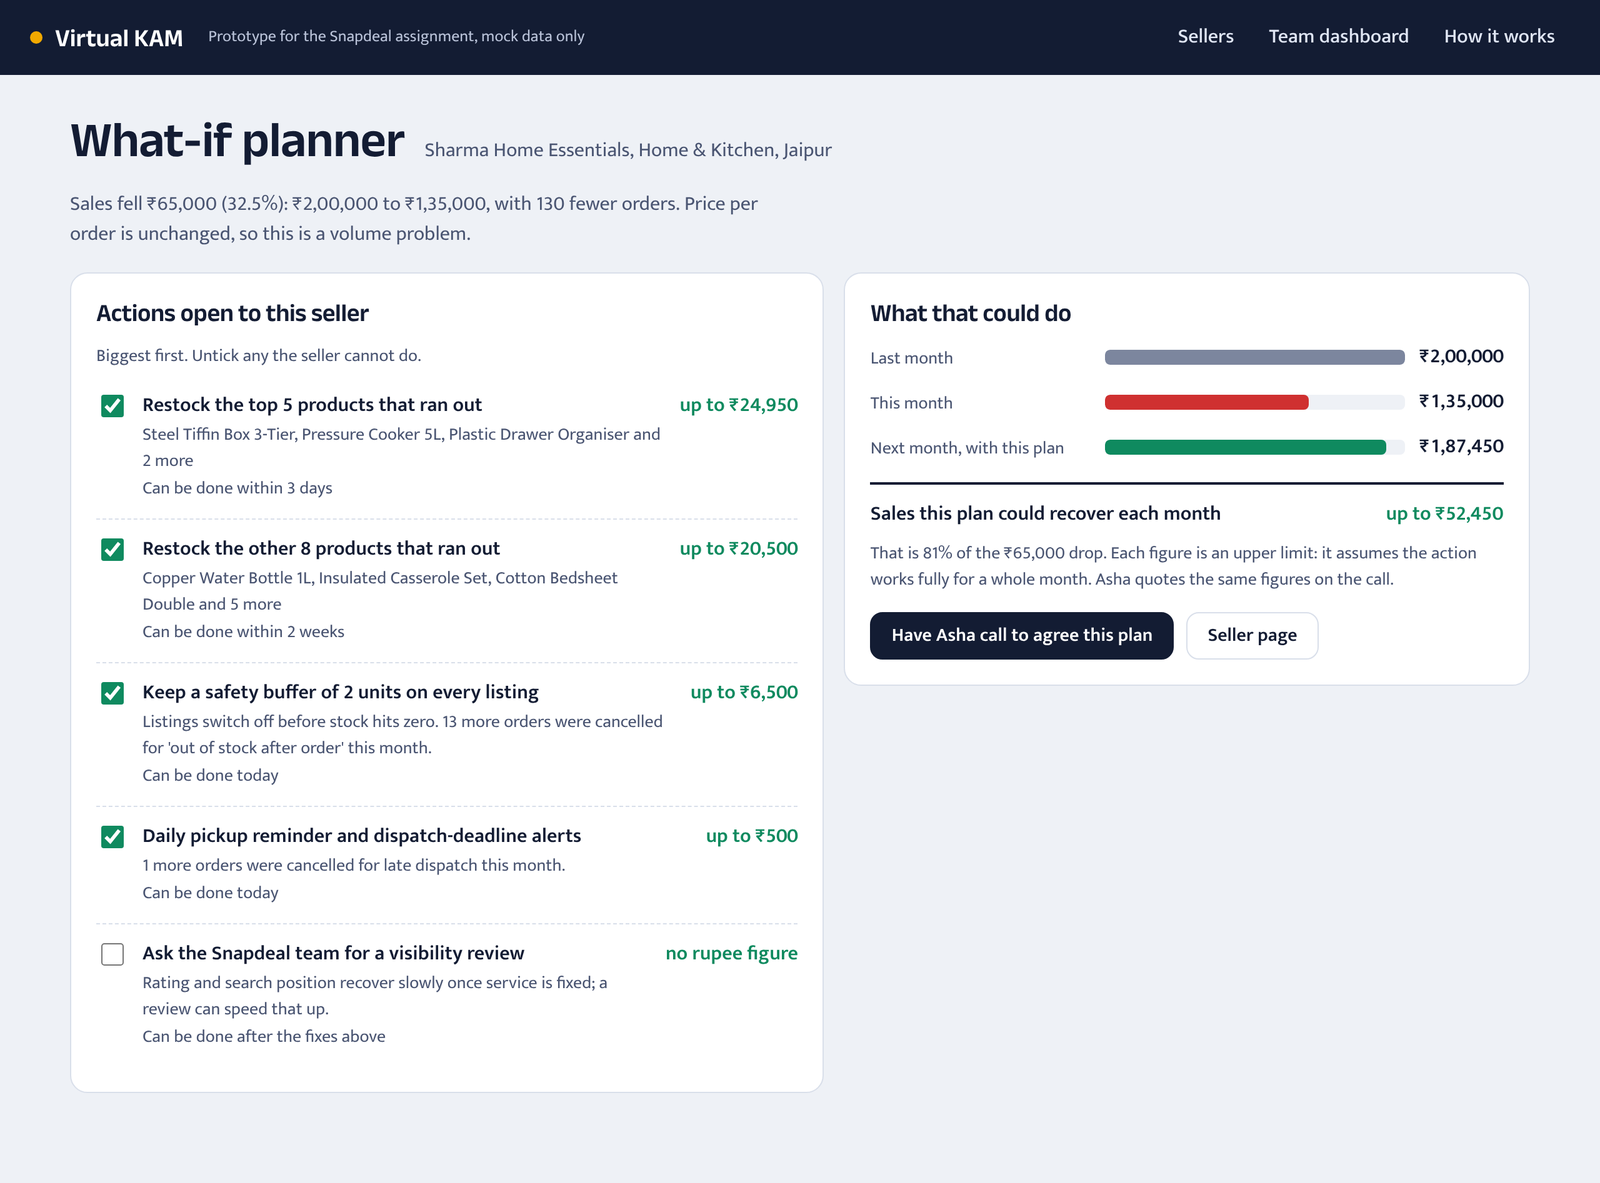
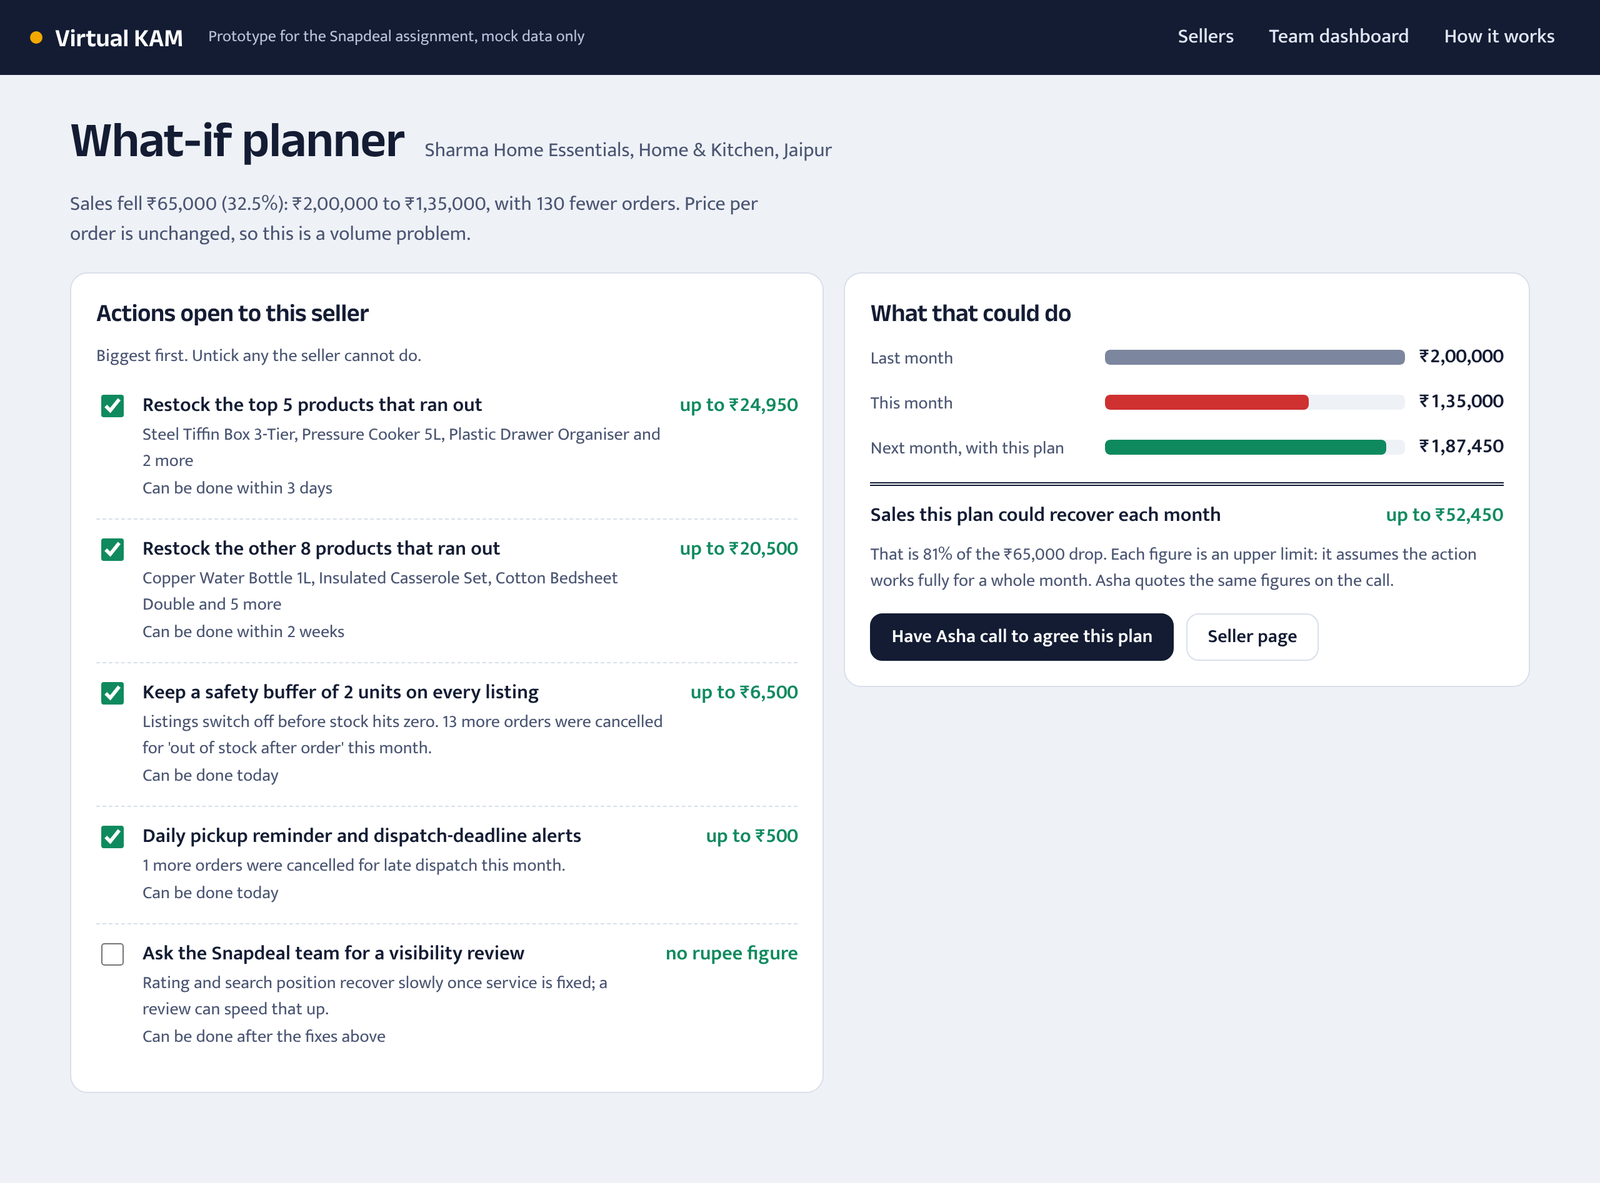
Redesign the home page hero, call panel and ledger

Changed region(s): [[0.5312, 0.3956, 0.9375, 0.5478]]

diff --git a/web/app/globals.css b/web/app/globals.css
@@ -56,8 +56,18 @@ ul.clean { margin: 6px 0 0; padding-left: 20px; } ul.clean li { margin: 3px 0; }
 ol.steps { margin: 0; padding-left: 22px; } ol.steps li { margin: 6px 0; padding-left: 4px; }
 
 /* home */
-.hero { padding: 16px 0 28px; max-width: 760px; }
-.hero p { font-size: 18px; color: var(--ink-2); margin-top: 12px; max-width: 62ch; }
+.hero { padding: 12px 0 28px; display: grid; gap: 24px; grid-template-columns: minmax(0, 1fr); align-items: center; }
+@media (min-width: 900px) { .hero { grid-template-columns: minmax(0, 6fr) minmax(0, 5fr); gap: 40px; } }
+.hero h1 { font-size: clamp(30px, 4.4vw, 46px); letter-spacing: -0.02em; }
+.hero p { font-size: 18px; color: var(--ink-2); margin-top: 14px; max-width: 56ch; }
+.herocard { border-left: 5px solid var(--marigold); box-shadow: 0 18px 36px -24px rgba(19,28,51,.55); }
+.herocard .lost { font: 600 clamp(30px, 4vw, 40px)/1.1 var(--display); margin: 6px 0 12px; font-variant-numeric: tabular-nums; }
+.herocard .lost span { font: 400 16px/1.3 var(--body); color: var(--ink-2); }
+.legend { list-style: none; padding: 0; margin: 10px 0 0; display: grid; gap: 4px; font-size: 14px; }
+.legend li { display: grid; grid-template-columns: auto minmax(0, 1fr) auto; gap: 8px; align-items: center; }
+.legend i { width: 10px; height: 10px; border-radius: 3px; }
+.legend .s0 { background: var(--red); } .legend .s1 { background: #e58a2b; } .legend .s2 { background: #8a94ad; } .legend .s3 { background: #b7bfd2; }
+.legend b { font-variant-numeric: tabular-nums; }
 .sellers { padding: 0; overflow: hidden; }
 .srow { display: grid; grid-template-columns: minmax(0, 1.5fr) minmax(0, 1.1fr) minmax(0, 1fr) auto; gap: 8px 20px; align-items: center;
   padding: 16px 20px; border-bottom: 1px solid var(--line); }
@@ -76,25 +86,24 @@ form.own .h { font-size: 13px; color: var(--ink-3); }
 .stage { display: grid; gap: 16px; grid-template-columns: minmax(0, 1fr); }
 .stage > * { min-width: 0; }
 @media (min-width: 960px) { .stage { grid-template-columns: minmax(0, 11fr) minmax(0, 10fr); align-items: start; } }
-.phone { background: var(--ink); color: #fff; border-radius: 18px; padding: 22px; }
+.phone { background: var(--ink); color: #fff; border-radius: 18px; padding: 24px; box-shadow: 0 14px 30px -18px rgba(19,28,51,.7); }
 .phone .status { display: flex; align-items: center; gap: 10px; font-size: 14px; color: #c5cde2; }
 .phone .dot { width: 10px; height: 10px; border-radius: 50%; background: #5d6a8c; flex: none; }
 .phone .dot.live { background: var(--marigold); box-shadow: 0 0 0 0 rgba(242,169,0,.6); animation: pulse 1.6s infinite; }
 .phone .dot.ring { background: var(--green); animation: pulse 1s infinite; }
 .phone .timer { margin-left: auto; font-variant-numeric: tabular-nums; }
 @keyframes pulse { 0% { box-shadow: 0 0 0 0 rgba(242,169,0,.55); } 100% { box-shadow: 0 0 0 12px rgba(242,169,0,0); } }
-.phone .now { font: 600 clamp(22px, 3vw, 28px)/1.2 var(--display); margin: 14px 0 6px; }
+.phone .now { font: 600 clamp(24px, 3.4vw, 34px)/1.15 var(--display); margin: 16px 0 6px; letter-spacing: -0.01em; }
 .phone .hint { color: #c5cde2; max-width: 46ch; }
 .phone .controls { display: flex; gap: 10px; flex-wrap: wrap; margin-top: 18px; align-items: center; }
 .phone .opts { display: flex; gap: 12px; flex-wrap: wrap; margin-top: 16px; }
 .phone .opts label { font-size: 13px; color: #c5cde2; display: grid; gap: 4px; }
 .phone .opts select { width: auto; background: #1f2c50; color: #fff; border-color: #34426b; }
-.bars { display: flex; align-items: flex-end; gap: 4px; height: 26px; margin-top: 14px; }
-.bars i { width: 5px; border-radius: 3px; background: #34426b; height: 6px; transition: height .18s, background .18s; }
+.bars { display: flex; align-items: center; gap: 4px; height: 48px; margin-top: 16px; }
+.bars i { flex: 1 1 0; max-width: 8px; border-radius: 4px; background: #34426b; height: 6px; transition: height .18s, background .18s; }
 .bars.agent i { background: var(--marigold); } .bars.seller i { background: #7fa2ff; }
 .bars.agent i, .bars.seller i { animation: talk .9s ease-in-out infinite; }
-.bars i:nth-child(2) { animation-delay: .12s; } .bars i:nth-child(3) { animation-delay: .24s; } .bars i:nth-child(4) { animation-delay: .36s; } .bars i:nth-child(5) { animation-delay: .48s; }
-@keyframes talk { 0%, 100% { height: 6px; } 50% { height: 24px; } }
+@keyframes talk { 0%, 100% { height: 6px; } 50% { height: 44px; } }
 .talk { display: flex; flex-direction: column; gap: 8px; max-height: 420px; overflow-y: auto; padding: 2px; }
 .turn { max-width: 88%; padding: 8px 12px; border-radius: 14px; }
 .turn.agent { background: var(--paper); align-self: flex-start; border-bottom-left-radius: 4px; }
@@ -105,12 +114,12 @@ form.own .h { font-size: 13px; color: var(--ink-3); }
 .cause .head { display: flex; justify-content: space-between; gap: 12px; align-items: baseline; flex-wrap: wrap; }
 .bar { height: 8px; background: var(--paper); border-radius: 4px; margin: 6px 0 4px; overflow: hidden; }
 .bar i { display: block; height: 100%; background: var(--red); border-radius: 4px; }
-.entry { display: grid; grid-template-columns: auto minmax(0, 1fr) auto; gap: 4px 12px; padding: 12px 0; border-bottom: 1px dashed var(--line); animation: stamp .45s ease-out; }
+.entry { display: grid; grid-template-columns: auto minmax(0, 1fr) auto; gap: 4px 12px; padding: 12px 0; border-bottom: 1px solid #ece3cf; animation: stamp .45s ease-out; }
 .entry:last-of-type { border-bottom: 0; }
 .entry .tick { width: 24px; height: 24px; border-radius: 50%; background: var(--green); color: #fff; display: grid; place-items: center; font-size: 14px; font-weight: 700; }
 .entry .amt { color: var(--green); font-weight: 600; font-variant-numeric: tabular-nums; white-space: nowrap; }
 @keyframes stamp { 0% { opacity: 0; transform: scale(1.04); background: var(--green-soft); } 100% { opacity: 1; transform: none; background: transparent; } }
-.total { display: flex; justify-content: space-between; gap: 12px; padding-top: 12px; margin-top: 4px; border-top: 2px solid var(--ink); font-weight: 600; }
+.total { display: flex; justify-content: space-between; gap: 12px; padding-top: 12px; margin-top: 4px; border-top: 3px double var(--ink); font-weight: 600; }
 
 /* dashboard */
 .stats { display: grid; grid-template-columns: repeat(auto-fit, minmax(150px, 1fr)); border: 1px solid var(--line); border-radius: 14px; background: var(--card); overflow: hidden; margin: 20px 0 16px; }
@@ -125,6 +134,16 @@ form.own .h { font-size: 13px; color: var(--ink-3); }
 .flow b { display: block; }
 
 td .btn { white-space: nowrap; }
+/* The record of what was agreed, styled as a page from a shop's account book */
+.card.ledger { background: #fffdf6; border-color: #e6dcc3; border-left: 5px solid var(--marigold); }
+.card.ledger .entry:last-of-type { border-bottom: 0; }
+/* One bar for the whole drop, split by cause */
+.split { margin: 14px 0 4px; }
+.splitbar { display: flex; height: 34px; border-radius: 8px; overflow: hidden; margin-top: 6px; background: var(--paper); }
+.splitbar .seg { display: grid; place-items: center; color: #fff; font-size: 13px; font-weight: 600; font-variant-numeric: tabular-nums; white-space: nowrap; overflow: hidden; min-width: 4px; }
+.splitbar .s0 { background: var(--red); } .splitbar .s1 { background: #e58a2b; } .splitbar .s2 { background: #8a94ad; } .splitbar .s3 { background: #b7bfd2; }
+.cause .bar i { background: var(--ink-3); }
+.cause:nth-of-type(1) .bar i { background: var(--red); } .cause:nth-of-type(2) .bar i { background: #e58a2b; }
 /* Progress of the call: Greet, Diagnose, Ask, Act, Follow-up, Summarise */
 .journey { list-style: none; display: flex; flex-wrap: wrap; gap: 6px 14px; padding: 0; margin: 10px 0 12px; font-size: 13px; color: var(--ink-3); }
 .journey li { display: inline-flex; align-items: center; gap: 6px; }

diff --git a/web/app/page.tsx b/web/app/page.tsx
@@ -10,7 +10,8 @@ export const dynamic = "force-dynamic";
 export default async function Home() {
   const sellers = await q(`
     select s.id, s.name, s.owner_name, s.city, s.category, s.is_custom,
-           p.sales as sales_prev, c.sales as sales_curr, d.risk_level, d.primary_cause
+           p.sales as sales_prev, c.sales as sales_curr, d.risk_level, d.primary_cause,
+           d.gap_inr, d.result->'causes' as causes
     from sellers s
     join monthly_metrics p on p.seller_id = s.id and p.period = 'prev'
     join monthly_metrics c on c.seller_id = s.id and c.period = 'curr'
@@ -19,15 +20,41 @@ export default async function Home() {
   const portfolio = sellers.filter((s) => !s.is_custom);
   const demo = portfolio.filter((s) => ["S1", "S2", "S3"].includes(s.id));   // one seller per root cause
   const custom = sellers.filter((s) => s.is_custom).slice(-6);
+  // The hero shows the seller from the assignment brief, with the diagnosis already done.
+  const brief = portfolio.find((s) => s.id === "S1" && Number(s.gap_inr) > 0);
+  const briefCauses: { key: string; title: string; impact_inr: number; share_pct: number }[] =
+    (brief?.causes ?? []).filter((c: any) => c.impact_inr > 0);
 
   return (
     <>
       <section className="hero">
-        <h1>A voice account manager that finds why a seller's sales fell, and fixes it on the call.</h1>
-        <p>
-          Pick a seller and speak to Asha in English or Hinglish. She has already studied the account,
-          asks only what the data cannot tell her, and acts when the seller says yes.
-        </p>
+        <div>
+          <h1>A voice account manager that finds why a seller's sales fell, and fixes it on the call.</h1>
+          <p>
+            Pick a seller and speak to Asha in English or Hinglish. She has already studied the account,
+            asks only what the data cannot tell her, and acts when the seller says yes.
+          </p>
+        </div>
+        {brief && (
+          <div className="card herocard">
+            <div className="muted small">Before the phone rings, Asha already knows this about {brief.name}</div>
+            <div className="lost">{inr(brief.gap_inr)} <span>of sales lost this month</span></div>
+            <div className="splitbar">
+              {briefCauses.map((c, i) => (
+                <span key={c.key} className={`seg s${i}`} style={{ width: `${c.share_pct}%` }}>{c.share_pct >= 18 ? inr(c.impact_inr) : ""}</span>
+              ))}
+            </div>
+            <ul className="legend">
+              {briefCauses.map((c, i) => (
+                <li key={c.key}><i className={`s${i}`} />{c.title}<b>{c.share_pct}%</b></li>
+              ))}
+            </ul>
+            <div className="row" style={{ marginTop: 14 }}>
+              <Link className="btn primary" href={`/seller/${brief.id}`}>Call as this seller</Link>
+              <Link className="btn" href={`/seller/${brief.id}/plan`}>See the plan</Link>
+            </div>
+          </div>
+        )}
       </section>
 
       <div className="card sellers">

diff --git a/web/components/CallScreen.tsx b/web/components/CallScreen.tsx
@@ -256,7 +256,11 @@ export default function CallScreen({ sellerId, ownerName, initialDirection, hasH
           <div className="now">{now}</div>
           {hint && <p className="hint">{hint}</p>}
           {live && waitedLong && <p className="hint">No agent has picked up. Check that the agent worker is running.</p>}
-          {live && <div className={`bars ${who ?? ""}`} aria-hidden><i /><i /><i /><i /><i /></div>}
+          {live && (
+            <div className={`bars ${who ?? ""}`} aria-hidden>
+              {Array.from({ length: 28 }, (_, i) => <i key={i} style={{ animationDelay: `${((i * 7) % 11) * 0.08}s` }} />)}
+            </div>
+          )}
 
           {(phase === "idle" || phase === "ringing") && (
             <div className="opts">
@@ -352,7 +356,7 @@ export default function CallScreen({ sellerId, ownerName, initialDirection, hasH
         )}
 
         {callId && (
-          <div className="card">
+          <div className="card ledger">
             <h2>Agreed on this call</h2>
             {actions.length === 0 && <p className="muted">Nothing yet. An action is written here the moment the seller says yes.</p>}
             {actions.map((a) => (
@@ -378,6 +382,18 @@ export default function CallScreen({ sellerId, ownerName, initialDirection, hasH
           <div className="card">
             <h2>What Asha found before speaking</h2>
             <p>{diagnosis.headline}</p>
+            {(diagnosis.causes as Cause[]).some((c) => c.impact_inr > 0) && (
+              <figure className="split">
+                <figcaption className="muted small">Where the lost sales went</figcaption>
+                <div className="splitbar">
+                  {(diagnosis.causes as Cause[]).filter((c) => c.impact_inr > 0).map((c, i) => (
+                    <span key={c.key} className={`seg s${i}`} style={{ width: `${c.share_pct}%` }} title={`${c.title}: ${inr(c.impact_inr)}`}>
+                      {c.share_pct >= 18 ? inr(c.impact_inr) : ""}
+                    </span>
+                  ))}
+                </div>
+              </figure>
+            )}
             {(diagnosis.causes as Cause[]).map((c) => (
               <div className="cause" key={c.key}>
                 <div className="head"><b>{c.title}</b><span className="num">{c.impact_inr > 0 ? `${inr(c.impact_inr)}, ${c.share_pct}% of the drop` : "costs money, not part of the drop"}</span></div>

diff --git a/README.md b/README.md
@@ -24,6 +24,10 @@ Everything runs on mock data. Seller S1 is the exact table from the assignment b
 
 ## What it looks like
 
+The home page: the seller from the brief, already diagnosed, and two more with different causes.
+
+![Home page](docs/screenshots/home.png)
+
 The call screen after a call: the conversation, what was agreed, and what Asha found before she spoke.
 
 ![Call screen](docs/screenshots/call.png)
